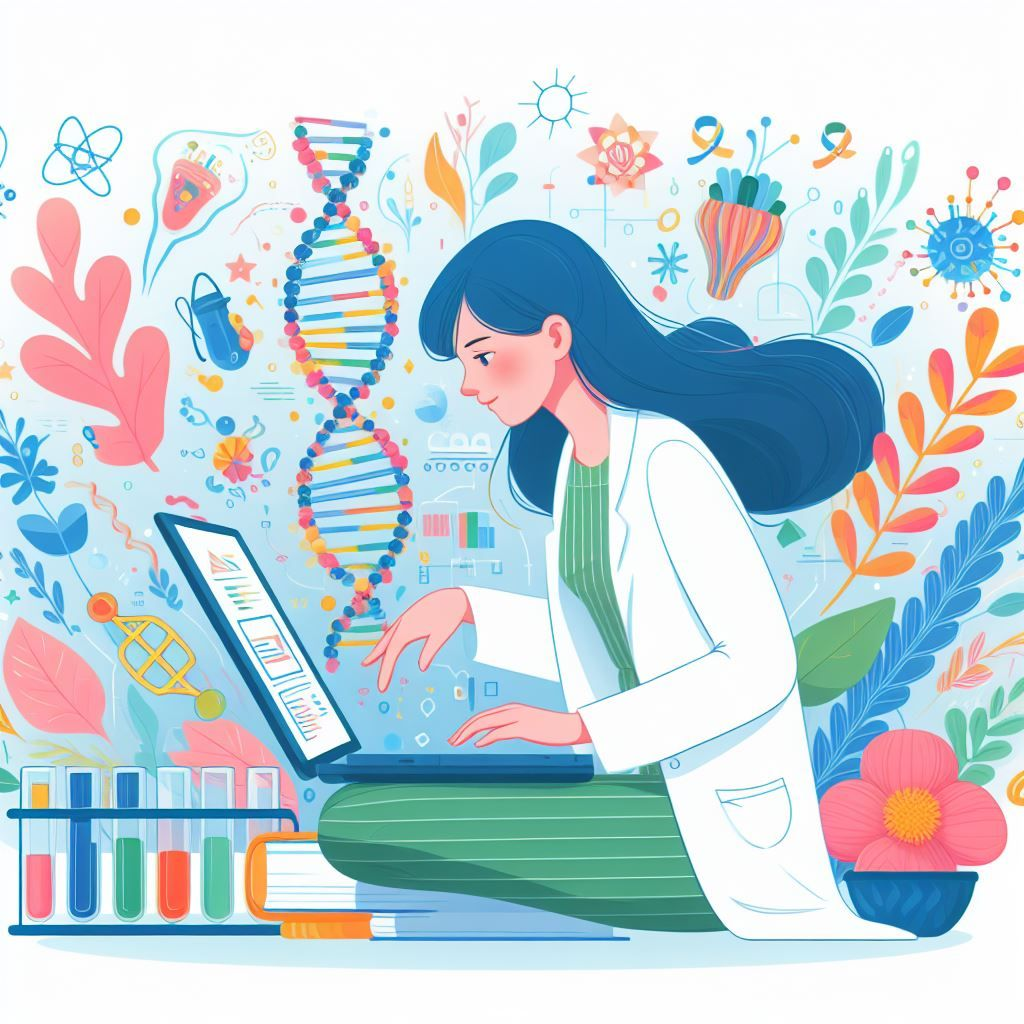
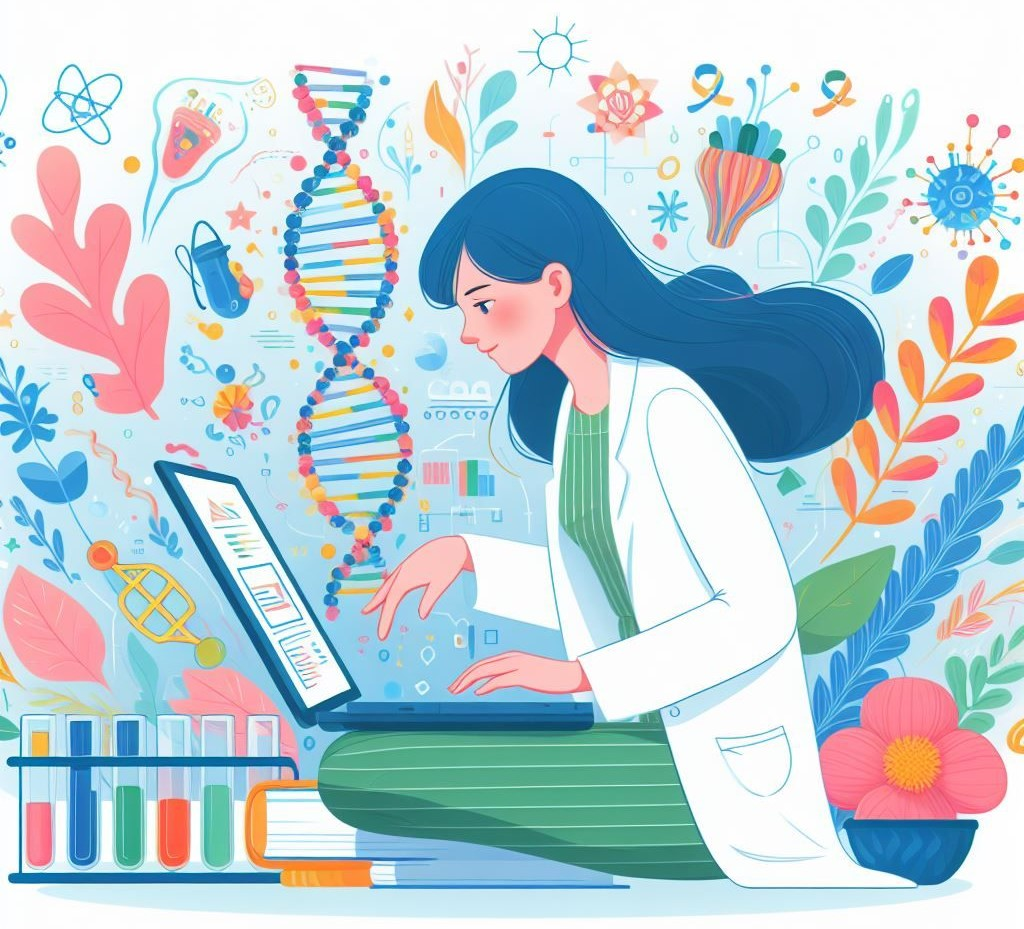
pic

diff --git a/docs/index.html b/docs/index.html
@@ -110,14 +110,17 @@ ul.task-list li input[type="checkbox"] {
 
 
 
-<section id="anastasia-natasa-anastasiadou" class="level1">
-<h1><span style="font-weight:500;">Anastasia (Natasa) Anastasiadou</span></h1>
+<section id="anastasia-natasa-anastasiadou" class="level2">
+<h2 class="anchored" data-anchor-id="anastasia-natasa-anastasiadou"><span style="font-weight:500;">Anastasia (Natasa) Anastasiadou</span></h2>
 <p>Hello! My name is Natasa and I’m currently working as a research assistant in <a href="https://biodataanalysisgroup.github.io/">Bioinformatics lab</a>, under the supervision of Dr.&nbsp;Psomopoulos, at the <a href="https://www.inab.certh.gr/">Institute of Applied Biosciences</a>, situated within the <a href="https://www.certh.gr/root.en.aspx">Centre for Research &amp; Technology, Hellas</a>. I received my BSc in Biochemistry and Biotechnology from the University of Thessaly and my M.Sc in Translational Research in Biomedicine from the Democritus University of Thrace.</p>
 <p>This site is built with Quarto and shared under a Creative Commons Attribution-ShareAlike 4.0 International License. You’re welcome to explore and enjoy!</p>
 <div class="quarto-figure quarto-figure-center">
 <figure class="figure">
-<p><img src="images/1712050337388.jpg" class="img-fluid quarto-figure quarto-figure-center figure-img" width="1000"></p>
+<p><img src="images/1712050337388.jpg" class="img-fluid quarto-figure quarto-figure-center figure-img" width="490"></p>
 </figure>
+</div>
+<div style="text-align: center; font-size: .75rem">
+<p><em>Figure caption: Picture from a post on</em> <a href="https://www.linkedin.com/feed/update/urn:li:activity:7180859584121561088?utm_source=share&amp;utm_medium=member_desktop">LinkedIn</a>.</p>
 </div>
 
 
